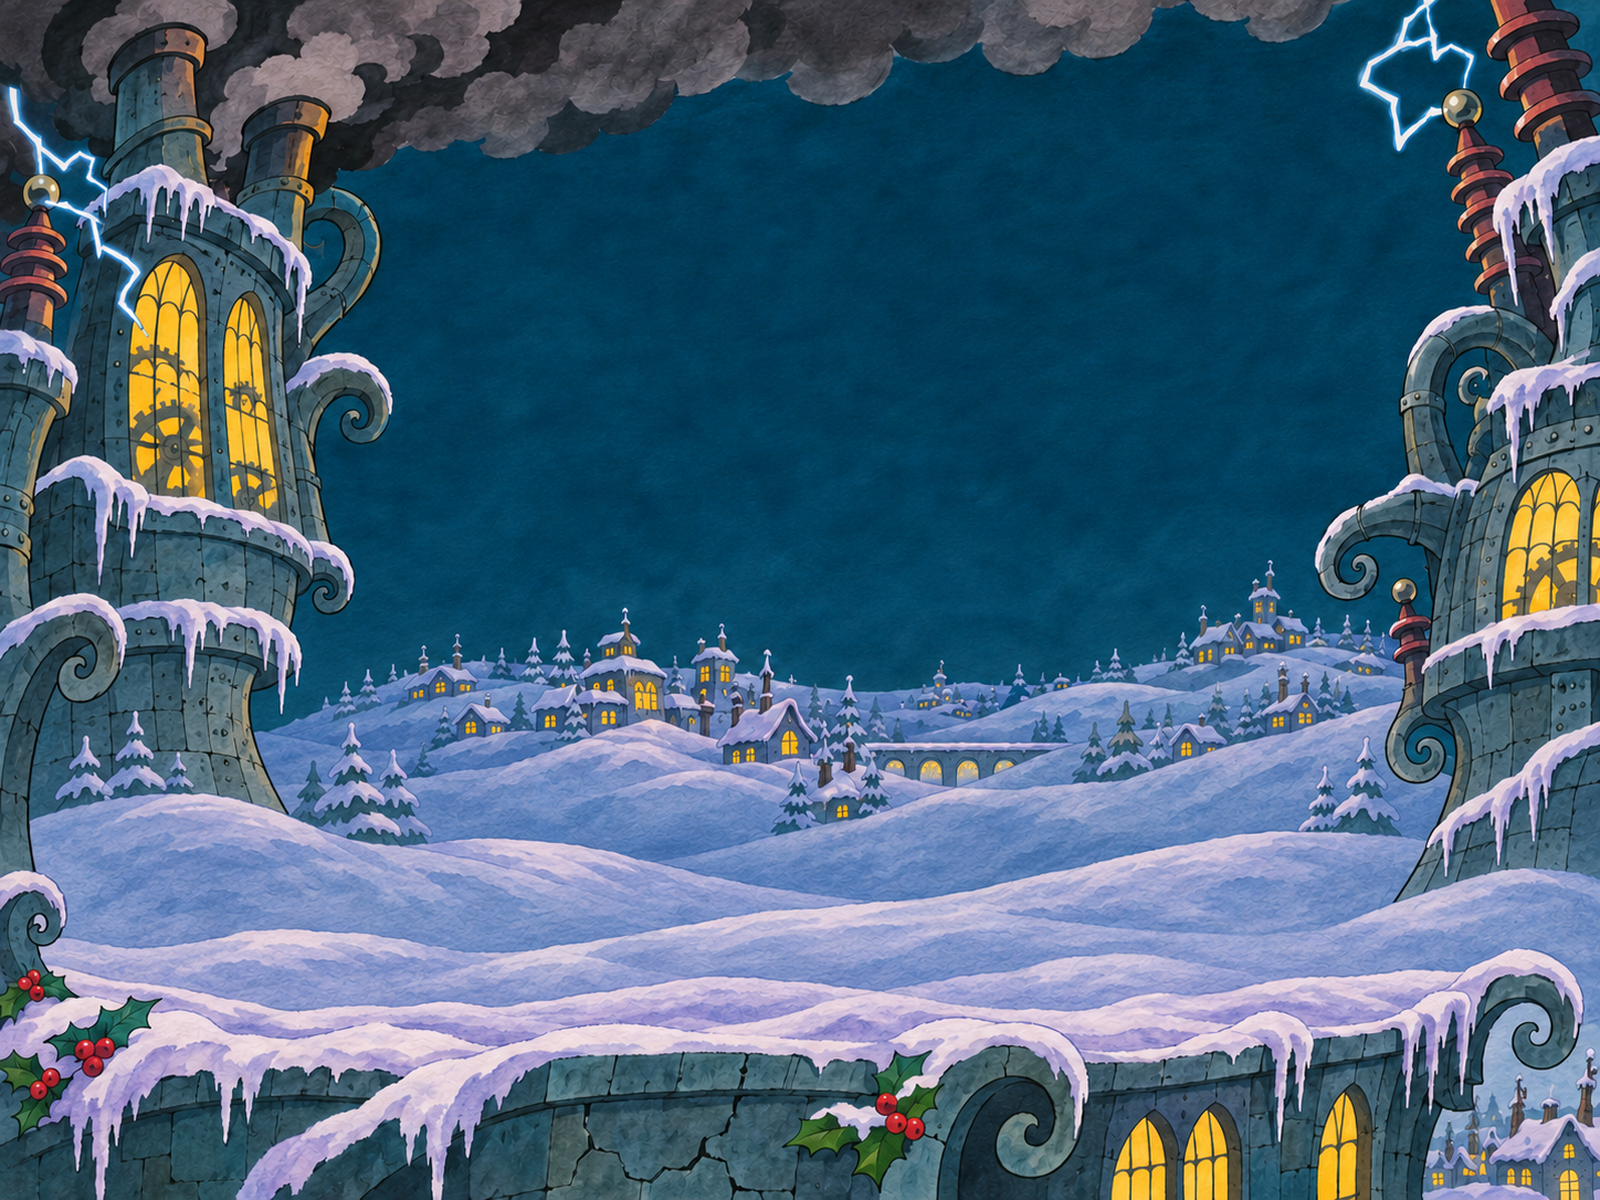
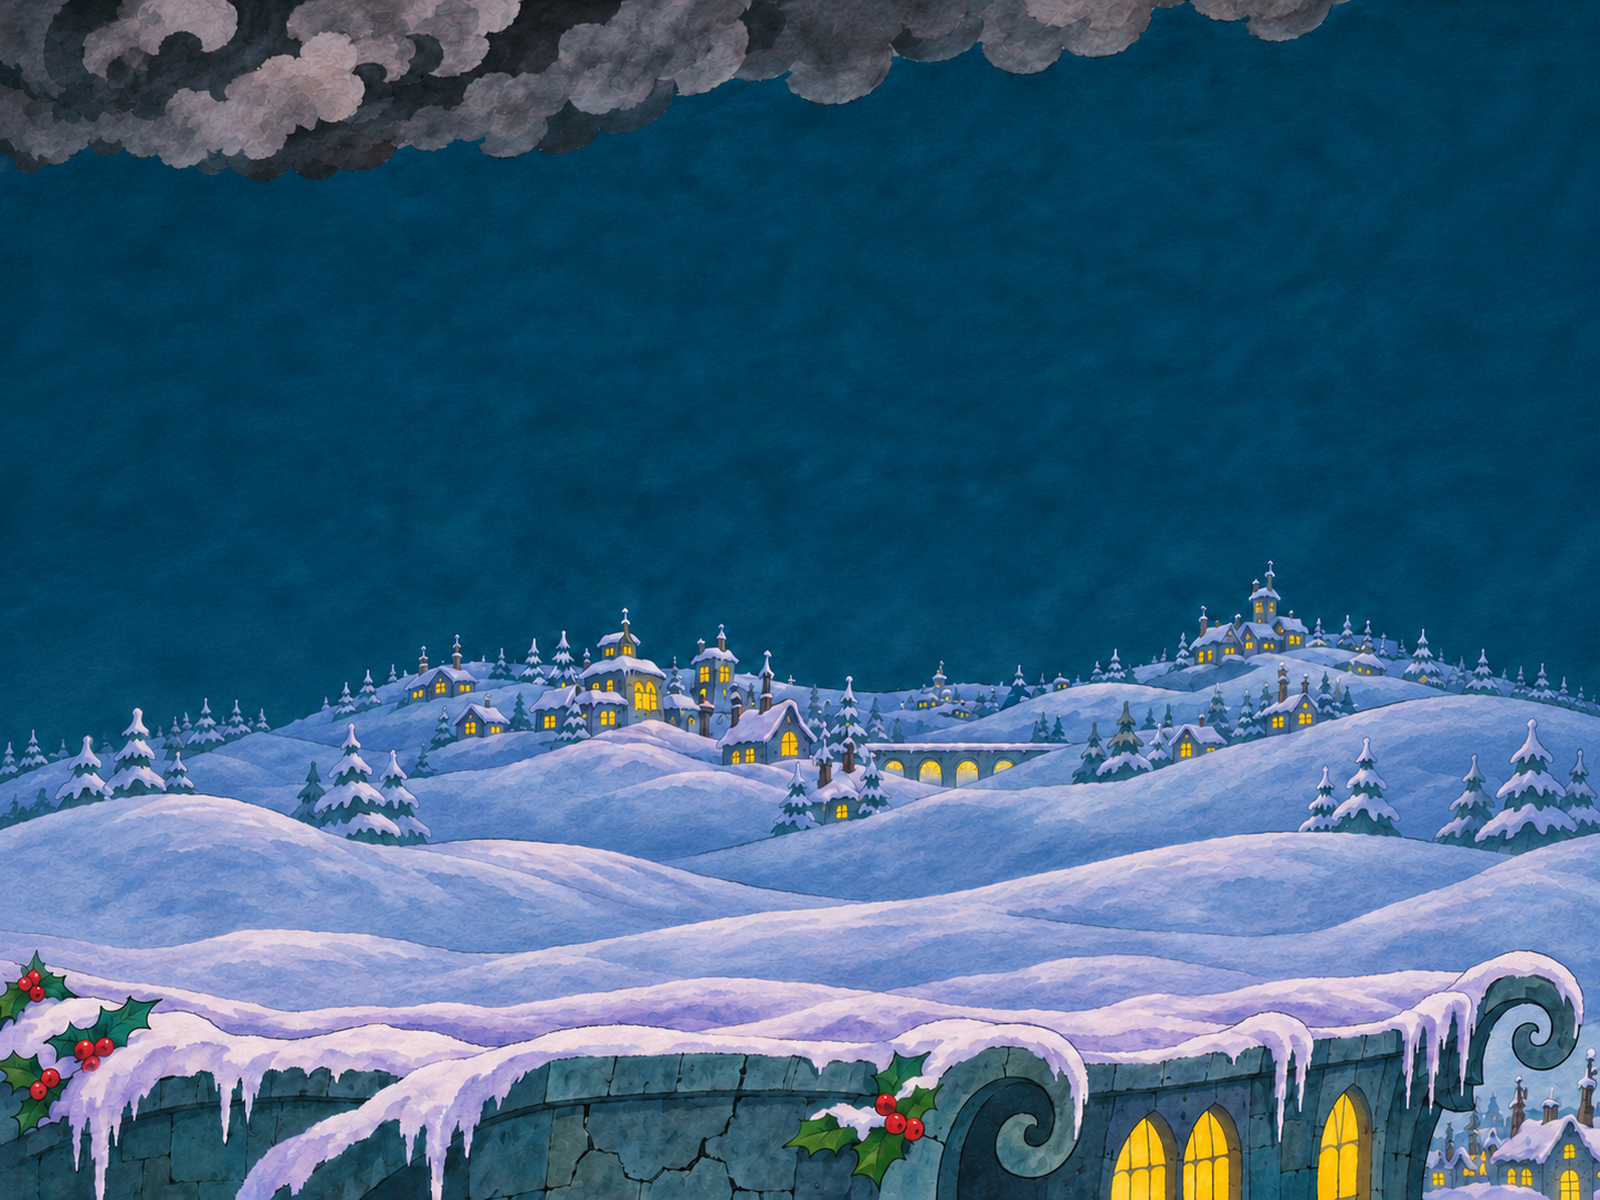
feat: cut-out towers bump whole over tower-free plates (20, 23, 52, 54)
Claude-Session: https://claude.ai/code/session_01BFhReQ2JcUvxWY8MGAMx4B

diff --git a/src/fx/Tower.tsx b/src/fx/Tower.tsx
@@ -1,6 +1,8 @@
 import React from 'react';
 import {Img, staticFile} from 'remotion';
 import towers from '../../docs/towers.json';
+import layers from '../../public/sprites/layers/layers.json';
+const LAYERS = layers as Record<string, {x: number; y: number; w: number; h: number}>;
 import {STILL_W, STILL_H} from '../layout';
 import {towerBump, towerFlash, towerGrowth} from './towerMath';
 import {cycle, hash} from './particles';
@@ -51,6 +53,19 @@ export function Tower({shot, t}: {shot: {id: string; still: string; towerStage: 
   const swell = ex ? ex.scale : 1, jit = ex ? ex.shake * (hash(Math.floor(t * 24)) - 0.5) : 0;
   const sy = (1 + g + b) * swell, sx = (1 + g + b * 0.5) * swell;   // stretch up more than out on each kick
   const top: [number, number] = [bx + (spec.top[0] * STILL_W - bx) * sx, by + (spec.top[1] * STILL_H - by) * sy];
+  if ((shot as {towerCut?: boolean}).towerCut) {
+    // the tower is its own cut-out layer over a tower-free plate: the WHOLE building bumps, the sky stays still
+    const L = LAYERS[`${shot.id}/tower`];
+    return <>
+      <div style={{position: 'absolute', left: 0, top: 0, width: STILL_W, height: STILL_H, transformOrigin: `${bx}px ${by}px`,
+        transform: `translateX(${jit}px) scale(${sx}, ${sy})`, filter: ex ? `brightness(${1 + flash + 0.08 * ex.glow})` : `brightness(${1 + flash})`}}>
+        <Img src={staticFile(`sprites/layers/${shot.id}/tower.png`)} style={{position: 'absolute', left: L.x, top: L.y, width: L.w, height: L.h}} />
+      </div>
+      <svg width={STILL_W} height={STILL_H} style={{position: 'absolute', left: 0, top: 0, overflow: 'visible'}}>
+        <Emitters top={top} stage={ex ? 5 + Math.round(3 * ex.glow) : stage} t={t} scale={Math.max(0.6, (spec.poly[2][1] - spec.poly[0][1]))} />
+      </svg>
+    </>;
+  }
   const mask = maskUrl(spec.poly);
   return (
     <>

diff --git a/scripts/build_shots.py b/scripts/build_shots.py
@@ -93,6 +93,7 @@ def build():
         shots[-1].update({'tier': m['tier'], 'fx': m.get('fx', []), 'action': m.get('action', '')})
         if m['tier'] == 'A': shots[-1].update({'plate': f"plates/{sid}.png", 'puppets': m['puppets']})
         elif m.get('plate'): shots[-1]['plate'] = f"plates/{sid}.png"
+        if m.get('towerCut'): shots[-1]['towerCut'] = True   # the tower is its own layer (layers/NN/tower) over a tower-free plate
         if 'push' in s:
             pt = imp[s['push']['t']] if isinstance(s['push']['t'], str) else s['push']['t']
             shots[-1]['camera']['push'] = {**dict(zip(('x', 'y', 'zoom', 'rot'), s['push']['to'])), 't': pt, 'dur': s['push'].get('dur', 0.3)}
